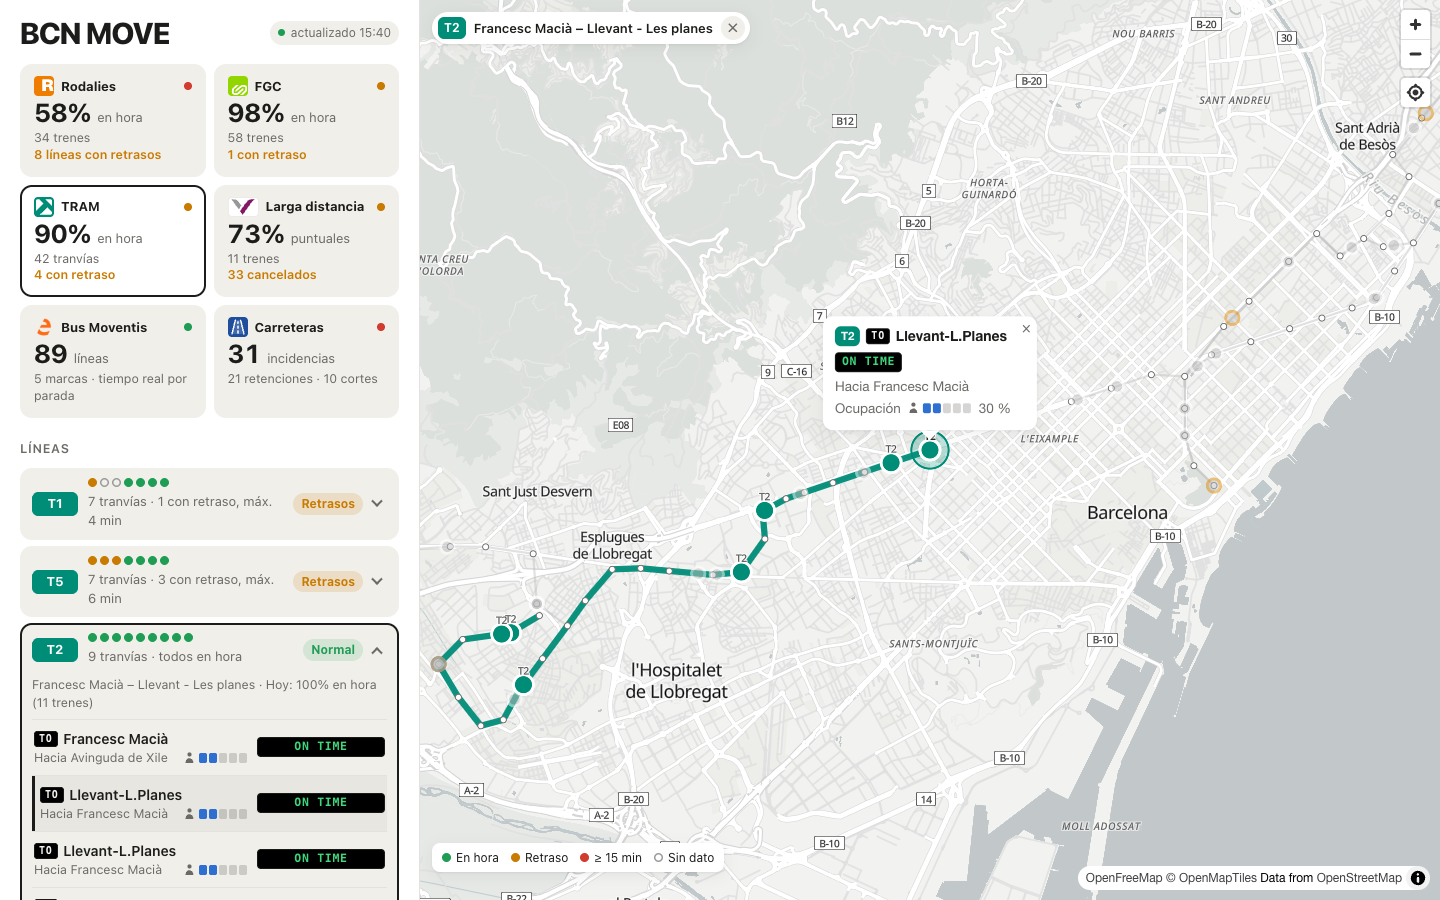
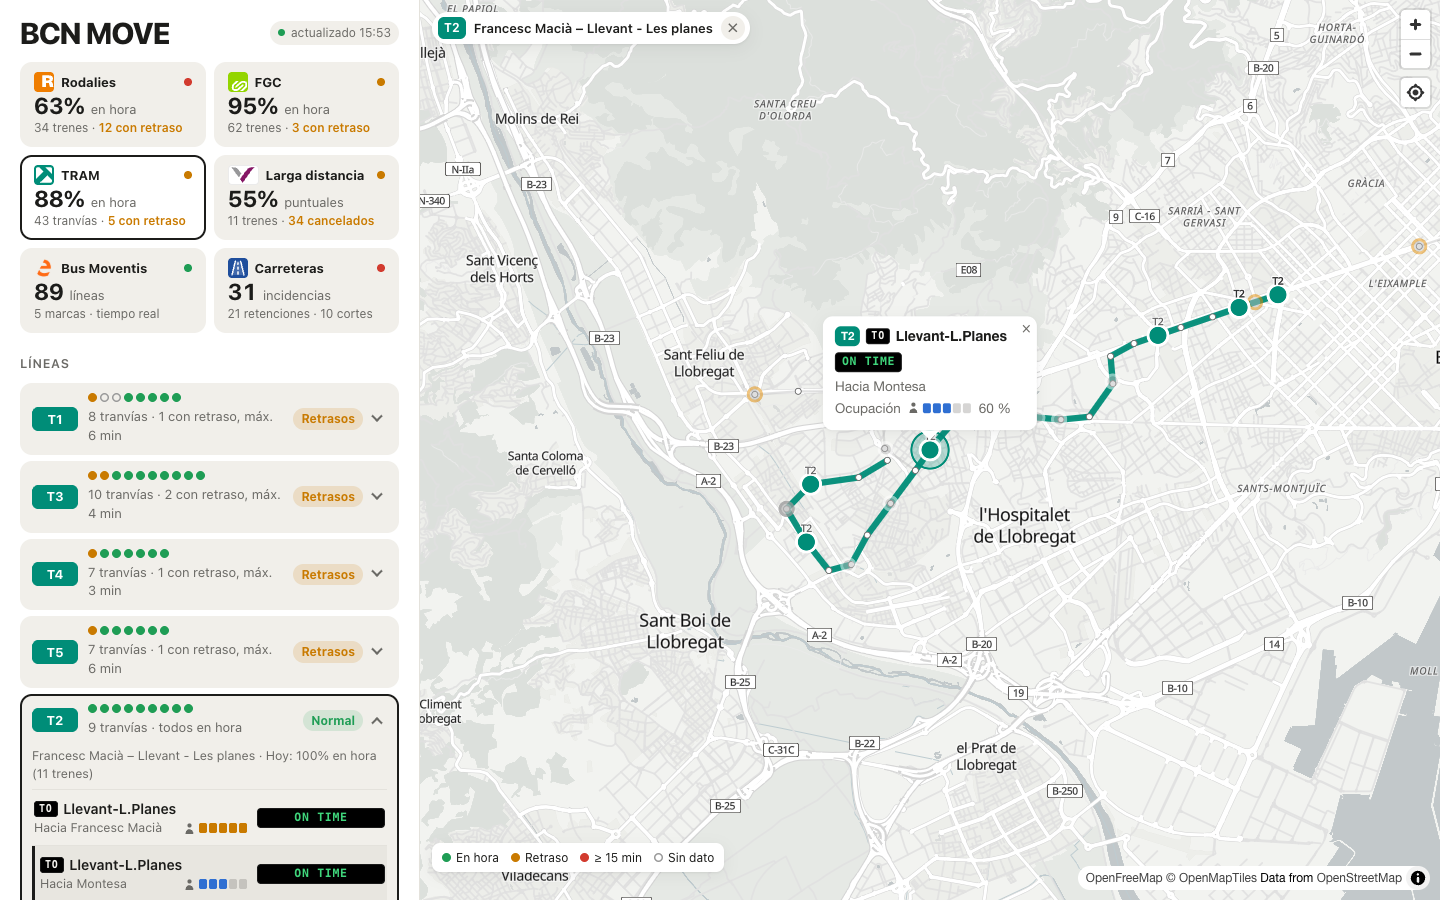
Escritorio: tarjetas de compañía más bajas
- Resumen en una sola línea (con el texto completo al pasar el ratón),
  menos margen y cifra algo menor: de unos 110 px a 85 px por tarjeta.
- Rodalies cuenta trenes con retraso, como FGC y TRAM; bus «tiempo real».
- Capturas del README actualizadas.

diff --git a/public/style.css b/public/style.css
@@ -58,8 +58,8 @@ em { font-style: normal; }
 .upd.is-error::before { background: var(--grave); }
 
 /* ── Tarjetas de compañía (resumen + pestañas) ── */
-.ops { display: grid; grid-template-columns: 1fr 1fr; gap: 8px; margin-top: 16px; }
-.op { display: grid; gap: 2px; align-content: start; text-align: left; background: var(--chip); border: 2px solid transparent; border-radius: 12px; padding: 10px 12px 11px; min-width: 0; }
+.ops { display: grid; grid-template-columns: 1fr 1fr; gap: 8px; margin-top: 14px; }
+.op { display: grid; gap: 1px; align-content: start; text-align: left; background: var(--chip); border: 2px solid transparent; border-radius: 12px; padding: 8px 12px 9px; min-width: 0; }
 .op:hover { border-color: var(--line); }
 .op[aria-selected="true"] { background: var(--panel); border-color: var(--accent); }
 .op-name { font-size: 13px; font-weight: 700; display: flex; align-items: center; gap: 7px; white-space: nowrap; overflow: hidden; }
@@ -69,10 +69,12 @@ em { font-style: normal; }
 .op-logo.tile-tram { background: #008d78; padding: 2px; } /* logo del TRAM en blanco, sobre su verde corporativo */
 .op-logo.wide { width: 31px; padding: 2px 3px; background: #fff; object-fit: contain; box-shadow: inset 0 0 0 1px rgb(0 0 0 / 8%); }
 .op-main { display: flex; align-items: baseline; gap: 6px; }
-.op-main b { font-size: 26px; line-height: 1.15; font-variant-numeric: tabular-nums; letter-spacing: -0.01em; }
+.op-main b { font-size: 23px; line-height: 1.1; font-variant-numeric: tabular-nums; letter-spacing: -0.01em; }
 .op-main span { font-size: 13px; color: var(--muted); }
-.op-sub { font-size: 12.5px; color: var(--muted); line-height: 1.35; }
-.op-sub em { display: block; color: var(--late); font-weight: 600; }
+/* Resumen en una sola línea (si no cabe, «…» y el texto completo al pasar el ratón) */
+.op-sub { font-size: 12px; color: var(--muted); line-height: 1.35; white-space: nowrap; overflow: hidden; text-overflow: ellipsis; }
+.op-sub em { color: var(--late); font-weight: 600; }
+.op-sub em::before { content: " · "; color: var(--muted); font-weight: 400; }
 .sdot { flex: none; width: 8px; height: 8px; border-radius: 50%; background: var(--nodata); }
 .sdot[data-status="normal"] { background: var(--ok); }
 .sdot[data-status="aviso"] { background: var(--info); }
@@ -251,9 +253,7 @@ dialog h2 { font-size: 20px; text-transform: none; letter-spacing: 0; color: var
   .op-logo.wide { width: 26px; }
   .op-main b { font-size: 18px; line-height: 1.15; }
   .op-main span { font-size: 11.5px; }
-  .op-sub { font-size: 11px; white-space: nowrap; overflow: hidden; text-overflow: ellipsis; }
-  .op-sub em { display: inline; }
-  .op-sub em::before { content: " · "; color: var(--muted); font-weight: 400; }
+  .op-sub { font-size: 11px; }
 
   /* Mapa: leyenda y selección más pequeñas para no tapar */
   .legend { bottom: 6px; left: 8px; gap: 8px; padding: 4px 8px; font-size: 11px; }

diff --git a/public/app.js b/public/app.js
@@ -325,20 +325,22 @@ function popupRoad(f, lngLat) {
 // ── Tarjetas de compañía (las pestañas) ──────────────────────────────────────
 function setCard(key, big, sub, status) {
   $(`[data-big="${key}"]`).textContent = big;
-  $(`[data-sub="${key}"]`).innerHTML = sub;
+  const el = $(`[data-sub="${key}"]`);
+  el.innerHTML = sub;
+  el.title = sub.replace(/<em>/g, ' · ').replace(/<[^>]+>/g, ''); // texto completo al pasar el ratón
   $(`[data-sdot="${key}"]`).dataset.status = status;
 }
 const warn = (txt) => `<em>${esc(txt)}</em>`;
 
 function renderCards(live) {
   const by = (op) => live.trains.filter((t) => t.operator === op);
-  const issues = (svc) => Object.values(svc).filter((v) => v.status === 'grave' || v.status === 'retrasos').length;
+  const late = (list) => list.filter((t) => sev(t) === 1 || sev(t) === 2).length;
 
   const ren = by('renfe');
   const rd = ren.filter((t) => t.delaySeconds != null);
-  const ri = issues(live.railService.renfe);
+  const rl = late(ren);
   setCard('rodalies', pct(rd.filter((t) => t.delaySeconds <= ON_TIME.renfe).length, rd.length),
-    `${plural(ren.length, 'tren', 'trenes')}${ri ? warn(`${plural(ri, 'línea', 'líneas')} con retrasos`) : ''}`, worstStatus(live.railService.renfe));
+    `${plural(ren.length, 'tren', 'trenes')}${rl ? warn(`${rl} con retraso`) : ''}`, worstStatus(live.railService.renfe));
 
   const fgc = by('fgc');
   const fl = fgc.filter((t) => sev(t) === 1 || sev(t) === 2).length;
@@ -627,7 +629,7 @@ async function loadBusLines() {
 function renderBusCard() {
   if (!BUS.lines) { setCard('bus', '–', BUS.error ? 'sin conexión con Moventis' : 'cargando…', 'sin-trenes'); return; }
   const brands = new Set(BUS.lines.map((l) => l.brand)).size;
-  setCard('bus', String(BUS.lines.length), `${plural(brands, 'marca', 'marcas')} · tiempo real por parada`, 'normal');
+  setCard('bus', String(BUS.lines.length), `${plural(brands, 'marca', 'marcas')} · tiempo real`, 'normal');
 }
 
 const busLine = (id) => BUS.lines?.find((l) => l.id === id);
